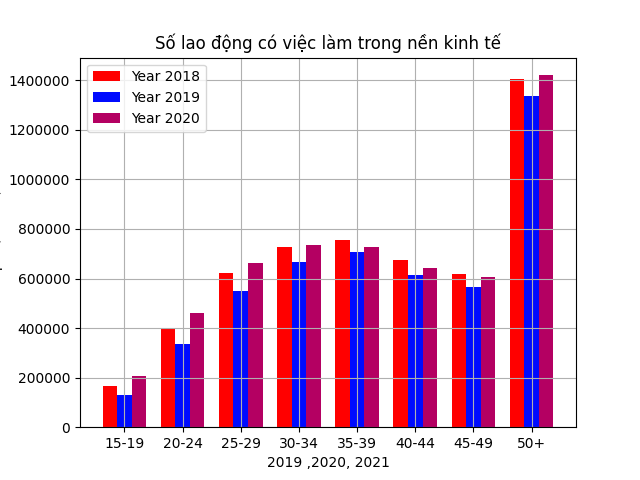
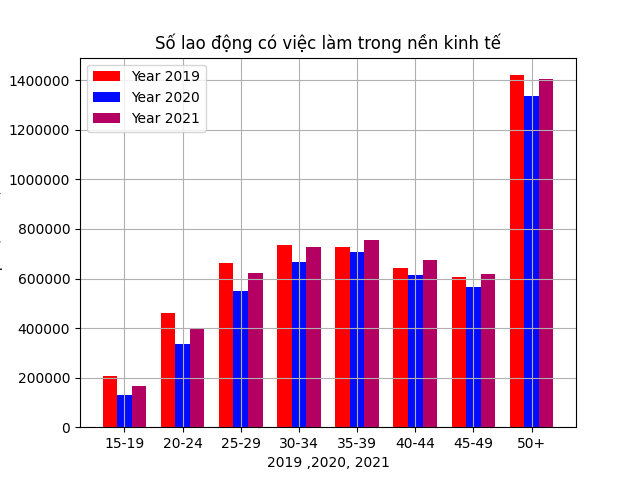
calculate

diff --git a/main.py b/main.py
@@ -2,49 +2,107 @@ import pandas as pd
 import numpy as np
 from matplotlib import pyplot
 from matplotlib.ticker import FuncFormatter
+from scipy import stats
 
-file_mau = pd.read_excel(r"data.xlsx", sheet_name="Sheet1")
-
-# print(file_mau.columns)
-# print(file_mau.loc[file_mau['Tuổi'] == "15-19", 2013].sum())
+file_mau = pd.read_excel(r"data.xlsx", skipfooter=5, sheet_name="Sheet1")
 
 lista = (file_mau['Tuổi'].unique())
-print(lista)
-listb = (file_mau[2020].unique())
-print(listb)
+listb = (file_mau[2019].unique())
 listc = (file_mau[2021].unique())
-print(listc)
-listd = (file_mau[2019].unique())
-print(listd)
+listd = (file_mau[2020].unique())
 
-# res = [eval(i) for i in listb]
+def calculate (year):
+    # Chuyển cột "2020" thành một Series
+    data = file_mau[year]
 
-# for tb in lista:
-#     lista.__add__ = print(file_mau.loc[file_mau['education'] == tb, 'income'].sum())
+    # Tính mean (trung bình)
+    mean_value = data.mean()
+
+    # Tính median (trung vị)
+    median_value = data.median()
+
+    # Tính mode (mode)
+    mode_value = data.mode()[0]  # Mode có thể trả về nhiều giá trị, chọn giá trị đầu tiên
+
+    # Tính phương sai (Variance)
+    variance_value = data.var()
+
+    # Tính độ lệch chuẩn (Standard Deviation)
+    std_dev_value = data.std()
+
+    # Tính tổng (Sum)
+    sum_value = data.sum()
+
+    # Tìm giá trị lớn nhất (Maximum)
+    max_value = data.max()
+
+    # Tìm giá trị nhỏ nhất (Minimum)
+    min_value = data.min()
+
+    # Độ tin cậy (confidence level)
+    confidence_level = float(input("Enter confidence level:"))
+
+    # Số lượng quan sát trong mẫu
+    n = len(data)
+
+    # Độ tự do (degrees of freedom)
+    df = n - 1
+
+    # Mean của mẫu
+    mean = np.mean(data)
+
+    # Độ lệch chuẩn của mẫu
+    std_dev = np.std(data, ddof=1)
+
+    # Tính margin of error
+    margin_of_error = stats.t.ppf((1 + confidence_level) / 2, df) * (std_dev / np.sqrt(n))
+
+    # Tính confidence interval
+    lower_bound = mean - margin_of_error
+    upper_bound = mean + margin_of_error
+
+    print("Year:", year)
+    print("Mean (Trung bình):", mean_value)
+    print("Median (Trung vị):", median_value)
+    print("Mode (Mode):", mode_value)
+    print("Variance (Phương sai):", variance_value)
+    print("Standard Deviation (Độ lệch chuẩn):", std_dev_value)
+    print("Sum (Tổng):", sum_value)
+    print("Maximum (Tối đa):", max_value)
+    print("Minimum (Tối thiểu):", min_value)
+    print("Confidence Interval: ({:.2f}, {:.2f})".format(lower_bound, upper_bound))
+    print("------------------------------------------")
+
+while True:
+    user_input = input("Enter a year (Enter '0' to exit): ")
+    if user_input == '0':
+        print("Exiting the loop...")
+        break
+    else:
+        calculate(int (user_input))
+
 
 def millions_formatter(x, pos):
-    """
-    Formatter function to convert numbers to millions.
-    """
+    # Formatter function to convert numbers to millions.
     return '{:.0f}'.format(x)
 
 def draw_multiline(a, b, c, d):
     ages = a
-    year20 = b
-    year21 = c
-    year22 = d
+    year19 = b
+    year20 = c
+    year21 = d
     # pyplot.style.use('dark_background')
     ages = np.arange(len(a)) 
     width = 0.25
 
-    pyplot.bar(ages - width, b, width, color='red', label='Company A')
-    pyplot.bar(ages, c, width, color='#000BFF', label='Company B')
-    pyplot.bar(ages + width, d, width, color='#B40062', label='Company C')
+    pyplot.bar(ages - width, year19, width, color='red', label='Year 19')
+    pyplot.bar(ages, year20, width, color='#000BFF', label='Year 20')
+    pyplot.bar(ages + width, year21, width, color='#B40062', label='Year 21')
     
     pyplot.xlabel("2019 ,2020, 2021")
     pyplot.ylabel("People (Million)")
     pyplot.title("Số lao động có việc làm trong nền kinh tế")
-    pyplot.legend(['Year 2018', 'Year 2019', 'Year 2020']) 
+    pyplot.legend(['Year 2019', 'Year 2020', 'Year 2021']) 
     pyplot.grid(True)
     pyplot.gca().yaxis.set_major_formatter(FuncFormatter(millions_formatter))  # Apply custom formatter
     pyplot.xticks(ages, a)
